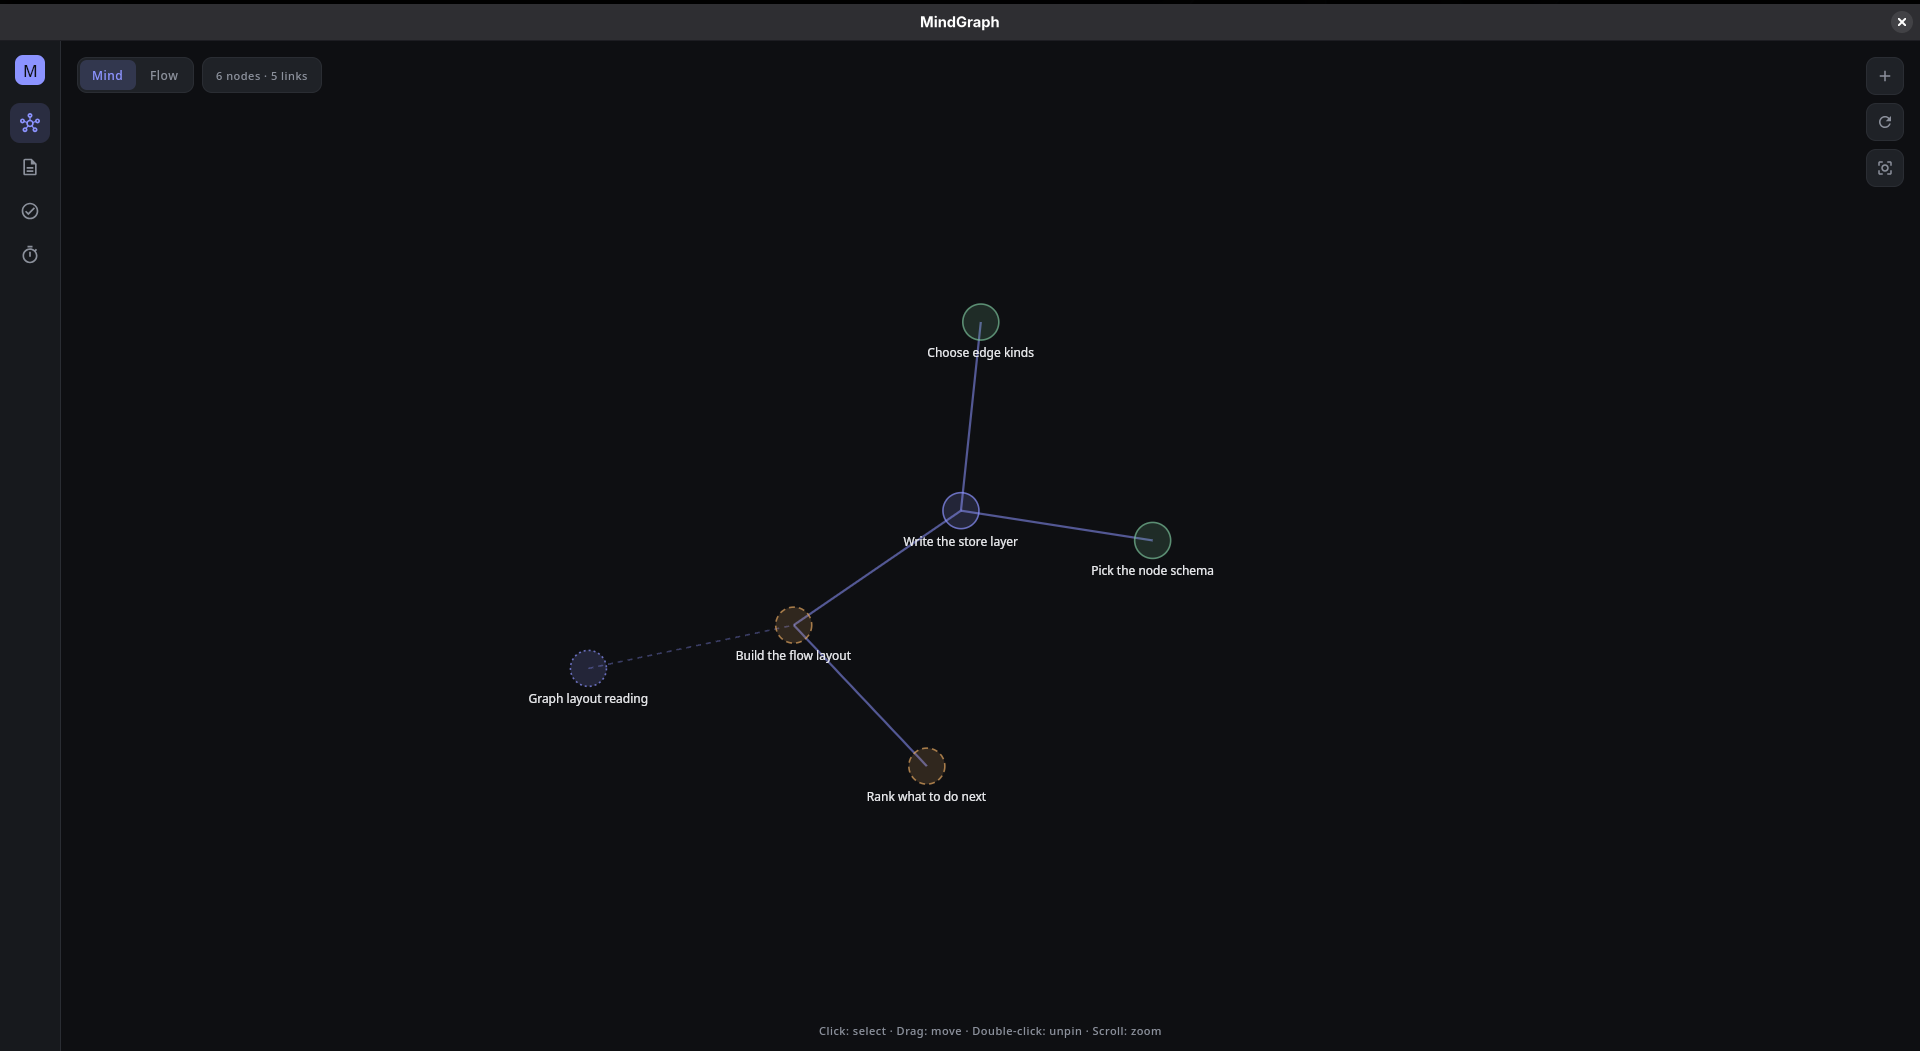
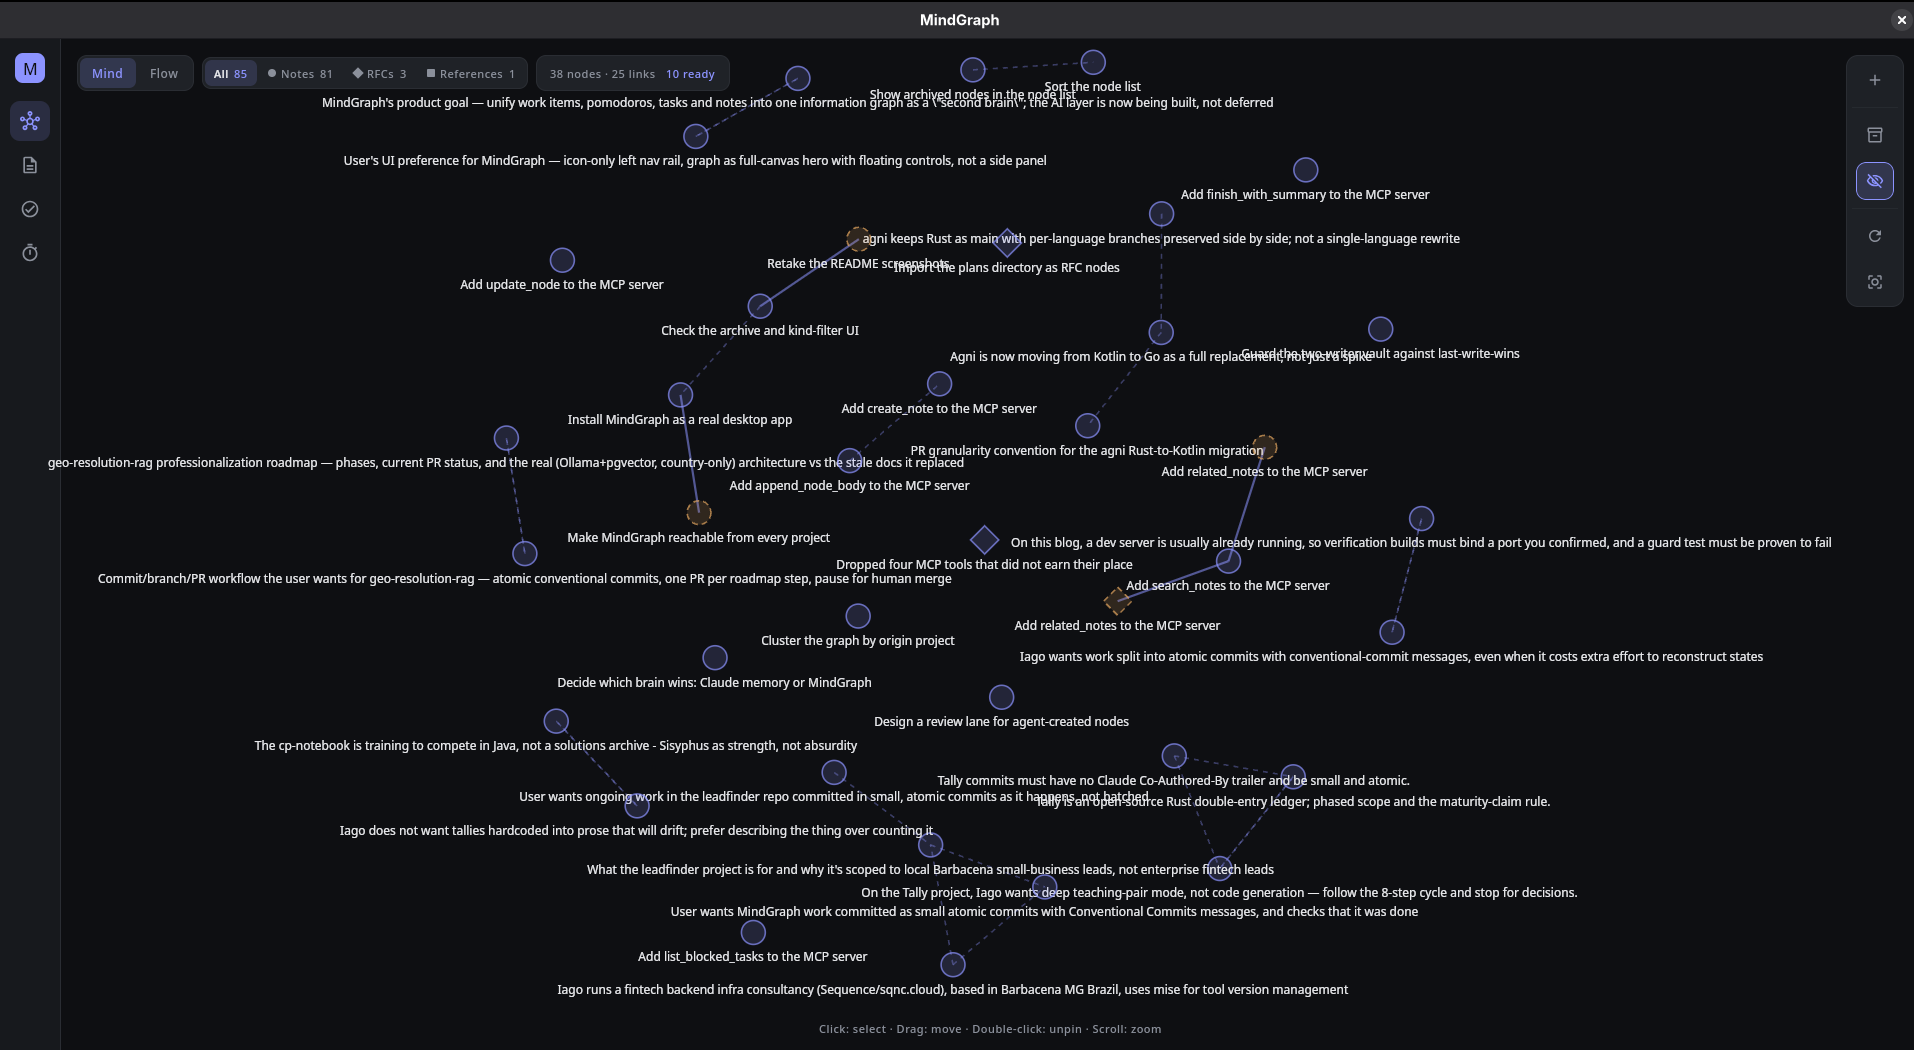
docs: use screenshots of a real vault, and caption what they show
The old shots were a six-node toy vault on an older build. These are the real
one — 85 nodes, memory imported from seven projects, work assigned to agents
and time logged against them — which is the story the README now tells.

Adds the RFC editor to the RFC section: the reasoning, the agent it belongs to,
what blocks it, and its edges, which is exactly what get_node hands back.

Drops the Flow image rather than show a six-node graph beside an eighty-five
node one; the file is still there for when there is a current one to use.

diff --git a/README.md b/README.md
@@ -28,7 +28,9 @@ it in a real app rather than by hand-editing what an agent left behind.
 
 Built with Kotlin and Compose Multiplatform for Desktop, in `desktop/`.
 
-![The notes graph in Mind mode](assets/screenshots/graph-mind.png)
+![The graph in Mind mode: 85 nodes, including memory imported from seven projects](assets/screenshots/graph-mind.png)
+
+<sub>Every project's agent memory in one graph — the notes on the right came from repositories that could never see each other.</sub>
 
 ## The idea
 
@@ -112,13 +114,16 @@ record of what you decided stays yours and stays legible.
 Both `[[wikilinks]]` in the prose and explicit edges count, so linking while writing costs
 two brackets.
 
+![An RFC assigned to an agent, blocked by the work it depends on](assets/screenshots/rfc-editor.png)
+
+<sub>An RFC node: the reasoning in the body, the agent it belongs to, what it is blocked by, and
+the edges to the work it governs — all of it reachable from one `get_node` call.</sub>
+
 ## What you get
 
 **One graph, two ways to read it.** Mind mode is force-directed, for associative
 thinking. Flow mode lays dependencies out in ranked columns, because springs scramble
 exactly the ordering a dependency graph exists to show.
-
-![The same graph in Flow mode](assets/screenshots/graph-flow.png)
 
 **Kinds you can see at a glance.** A node is a note, an RFC, or a reference — drawn as
 a circle, a diamond, or a square. Shape rather than colour, because colour already
@@ -136,13 +141,13 @@ much finishing it unblocks. There is no priority field: a declared rank would
 contradict the derived one, and it inflates until everything is urgent. A deadline
 decays on its own, because time moves.
 
-![Tasks grouped by derived state](assets/screenshots/tasks.png)
+![Ready and blocked work, with the reason each blocked task is waiting](assets/screenshots/tasks.png)
+
+<sub>Nothing here was typed in: ready, blocked, and what each one is waiting on are read off the graph.</sub>
 
 **Notes and tasks edited the same way.** Title, markdown body, live preview, and the
 task controls in the header — "Make this a task" is a button, not a different screen.
 Type `[[a note title]]` in the body and it becomes a link.
-
-![The markdown editor with task status](assets/screenshots/note-editor.png)
 
 **Your coding agent's memory, in the same graph.** Claude Code writes notes per project
 — markdown, frontmatter, `[[wikilinks]]`, one fact per file — and seals each set in its own
@@ -160,7 +165,9 @@ on the graph encodes cumulative tracked time, so the picture of your vault doubl
 picture of where your time went. The log records who spent it, so the Work screen can
 say how much of a body of work a machine did, and which agent did it.
 
-![Where the time went, split by worker](assets/screenshots/work.png)
+![Tracked time split by worker, broken down per agent and per node](assets/screenshots/work.png)
+
+<sub>A session where every minute was machine labour, split between two agents by name.</sub>
 
 ## Your data
 
